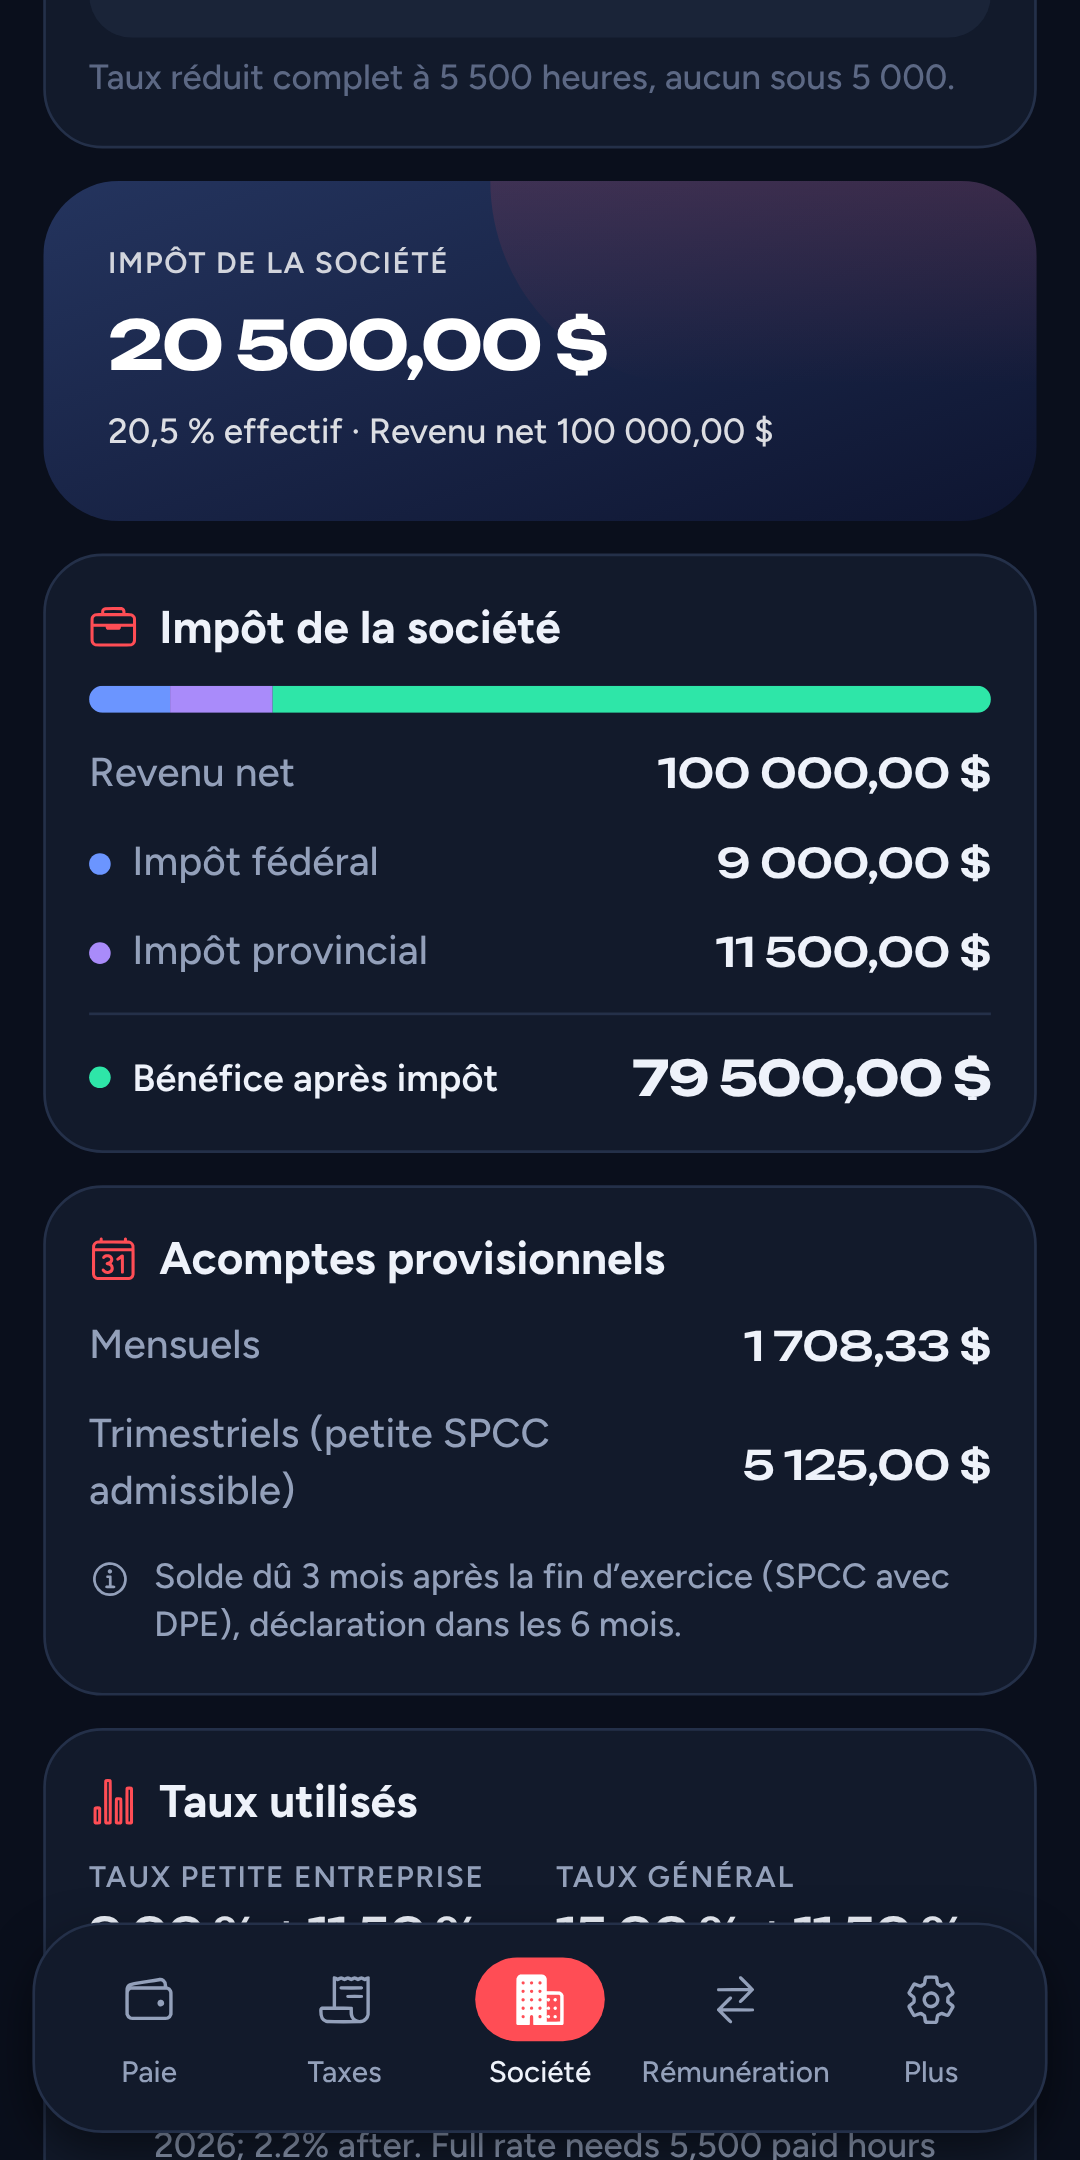
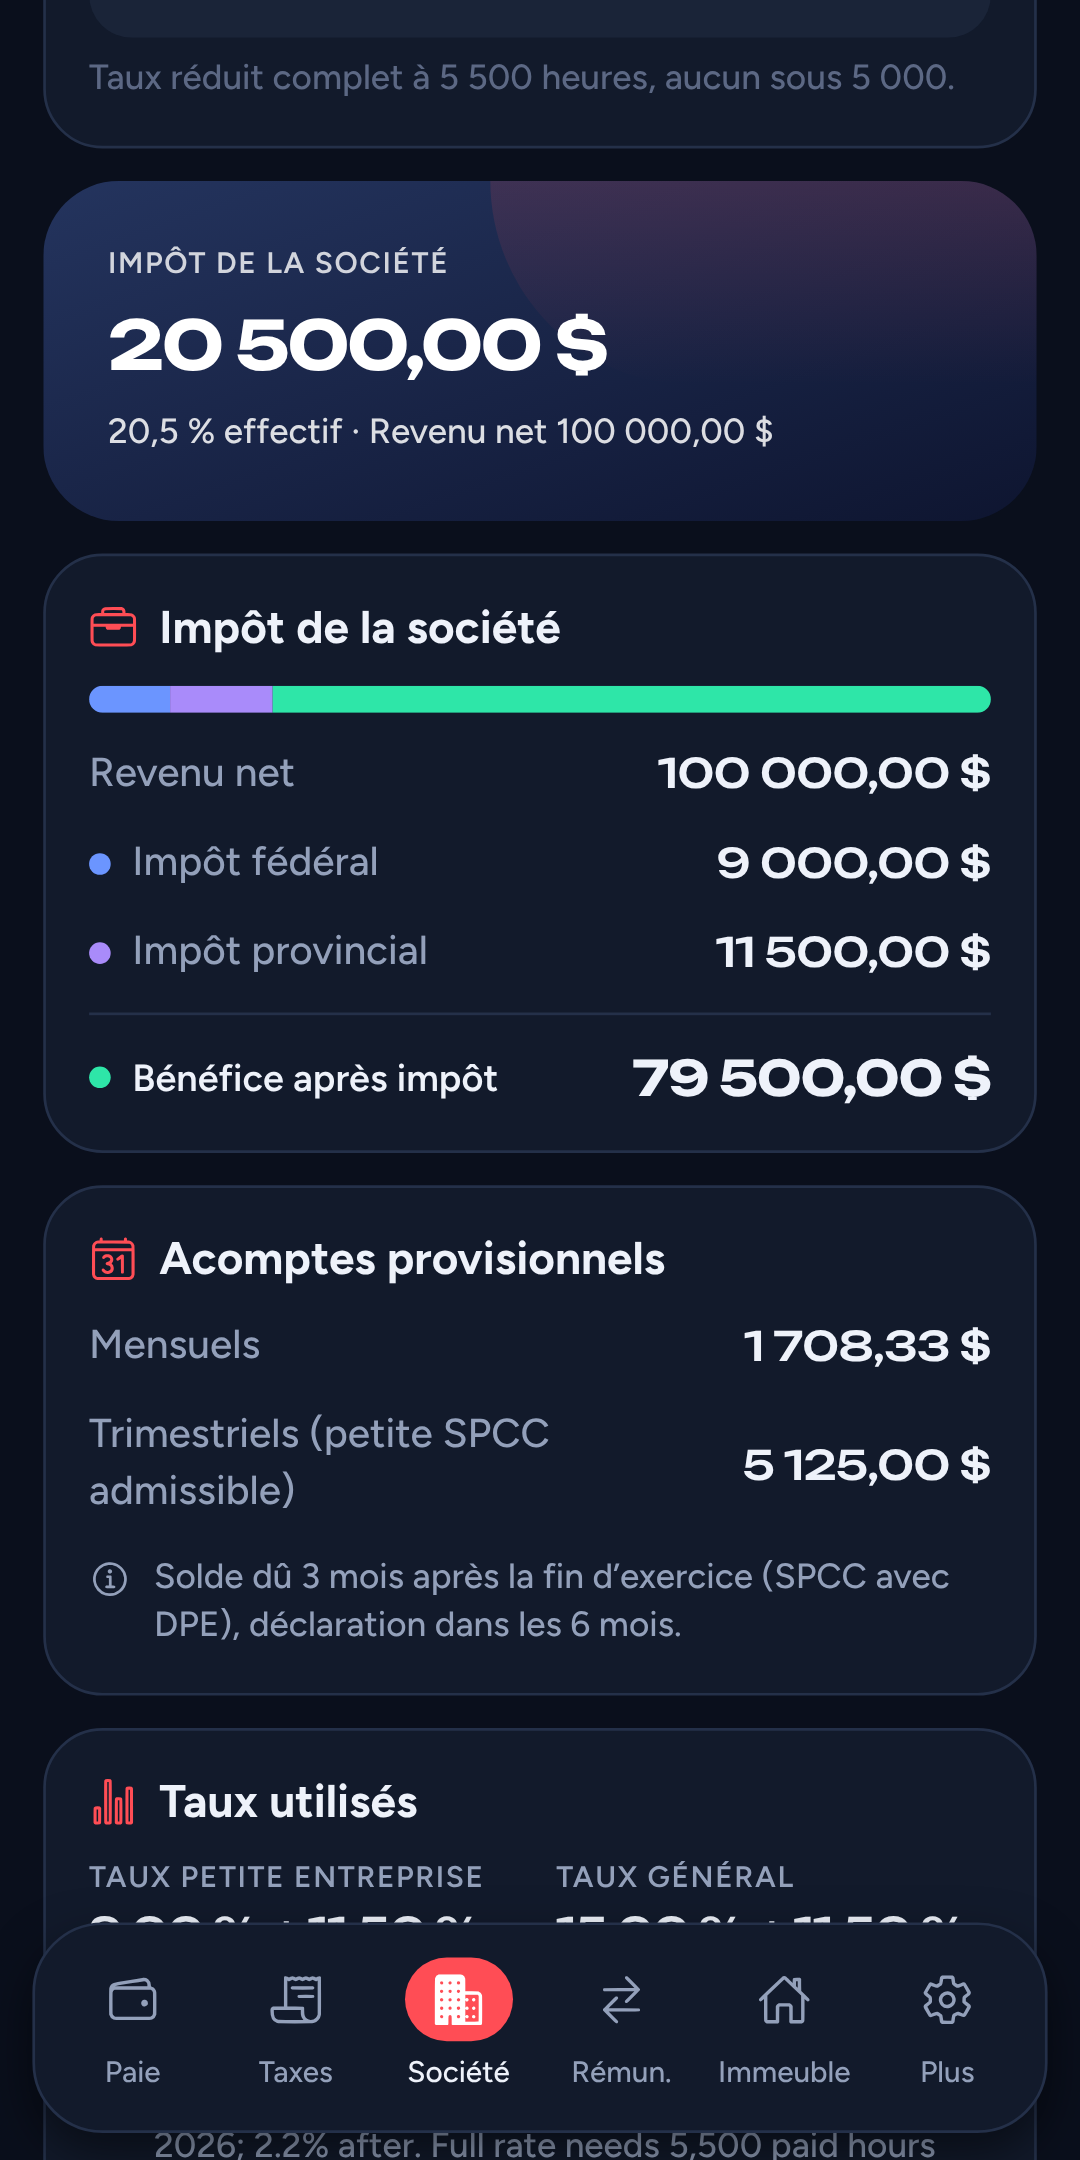
Store: property and iPad 13-inch screenshots; content rights and metadata in the submission workflow
Claude-Session: https://claude.ai/code/session_01Qrt6c54GPQY2b1xr6eCZox

diff --git a/scripts/store-shots.py b/scripts/store-shots.py
@@ -8,14 +8,16 @@ SHOTS = [  # (name, tab, scroll)
     ('3-sales', 'sales', 560),
     ('4-owner', 'owner', 380),
     ('5-corp', 'corp', 760),
+    ('6-property', 'property', 1500),
 ]
 TARGETS = [  # (folder, css width, css height, scale)
     ('fastlane/screenshots/{L}', 440, 956, 3),                       # App Store 6.9" (1320x2868)
     ('fastlane/metadata/android/{L}/images/phoneScreenshots', 400, 800, 2.7),  # Play (1080x2160)
+    ('fastlane/screenshots/{L}', 1032, 1376, 2),                     # iPad 13" (2064x2752)
 ]
 PREFS = {
-    'en-US': {'lang': 'en', 'theme': 'dark', 'onboarded': True, 'tipsSeen': ['payroll', 'sales', 'corp', 'owner'], 'prov': 'QC', 'payroll': {'amount': 85000, 'enterAnnual': True, 'periods': 26, 'eiExempt': True}},
-    'fr-CA': {'lang': 'fr', 'theme': 'dark', 'onboarded': True, 'tipsSeen': ['payroll', 'sales', 'corp', 'owner'], 'prov': 'QC', 'payroll': {'amount': 85000, 'enterAnnual': True, 'periods': 26, 'eiExempt': True}},
+    'en-US': {'lang': 'en', 'theme': 'dark', 'onboarded': True, 'tipsSeen': ['payroll', 'sales', 'corp', 'owner', 'property'], 'prov': 'QC', 'payroll': {'amount': 85000, 'enterAnnual': True, 'periods': 26, 'eiExempt': True}},
+    'fr-CA': {'lang': 'fr', 'theme': 'dark', 'onboarded': True, 'tipsSeen': ['payroll', 'sales', 'corp', 'owner', 'property'], 'prov': 'QC', 'payroll': {'amount': 85000, 'enterAnnual': True, 'periods': 26, 'eiExempt': True}},
 }
 
 async def main():
@@ -34,7 +36,7 @@ async def main():
                         await pg.mouse.move(w / 2, h / 2)
                         await pg.mouse.wheel(0, scroll)
                         await pg.wait_for_timeout(700)
-                    out = folder.format(L=L) + (f'/{i}.png' if 'android' in folder else f'/{name}.png')
+                    out = folder.format(L=L) + (f'/{i}.png' if 'android' in folder else f'/ipad13-{name}.png' if w > 900 else f'/{name}.png')
                     await pg.screenshot(path=out)
                 await ctx.close()
         await b.close()
